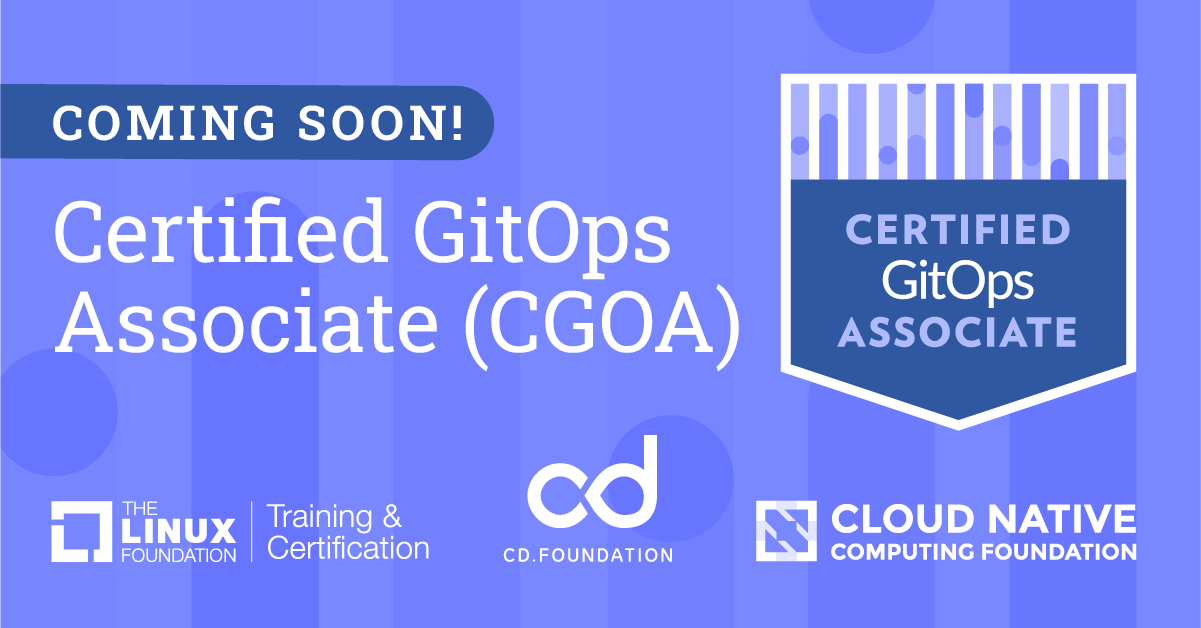
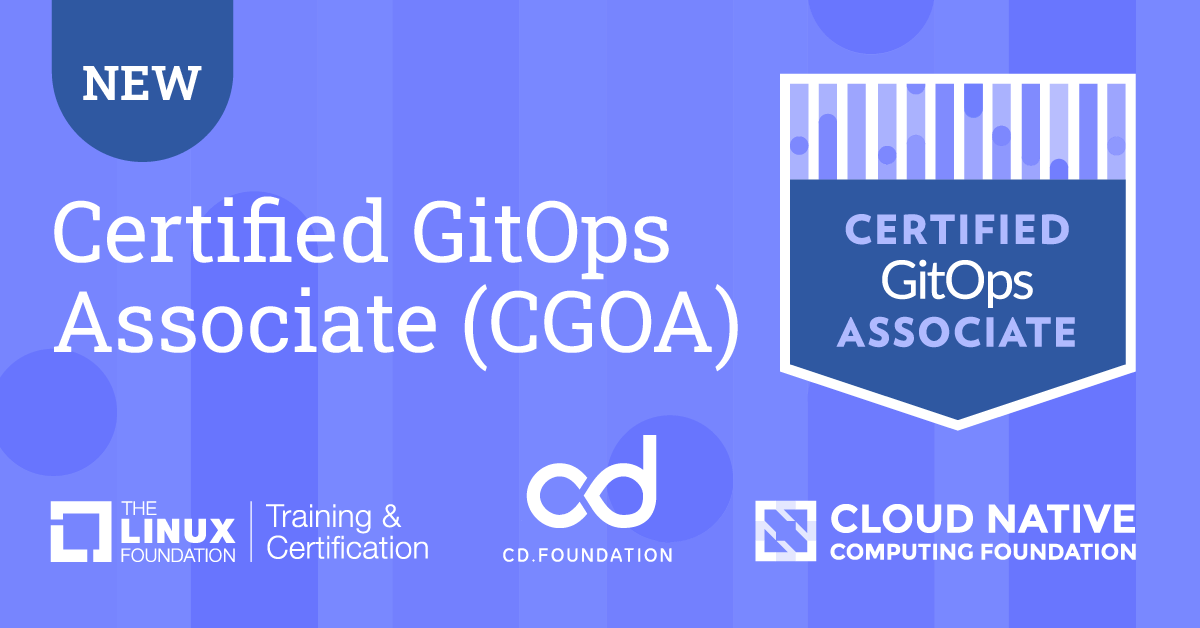
feat: update for GA
- Replace banner with GA Version
- Update disclaimer

diff --git a/README.md b/README.md
@@ -6,7 +6,7 @@
 
 ## Disclaimer
 
-*This study guide is an **unofficial resource** created to assist candidates preparing for the Certified GitOps Associate (CGOA) beta exam. It has been compiled with the intention of providing support and resources for exam preparation due to the limited availability of dedicated materials for this specific certification and has not been endorsed by the Linux Foundation or any other official body associated with the CGOA certification.*
+*This study guide is an **unofficial resource** created to assist candidates preparing for the Certified GitOps Associate (CGOA) exam. Originally compiled during the beta due to the limited availability of dedicated materials for the CGOA, as such it has not been endorsed by the Linux Foundation or any other official body associated with the CGOA certification.*
 
 ## Introduction
 
